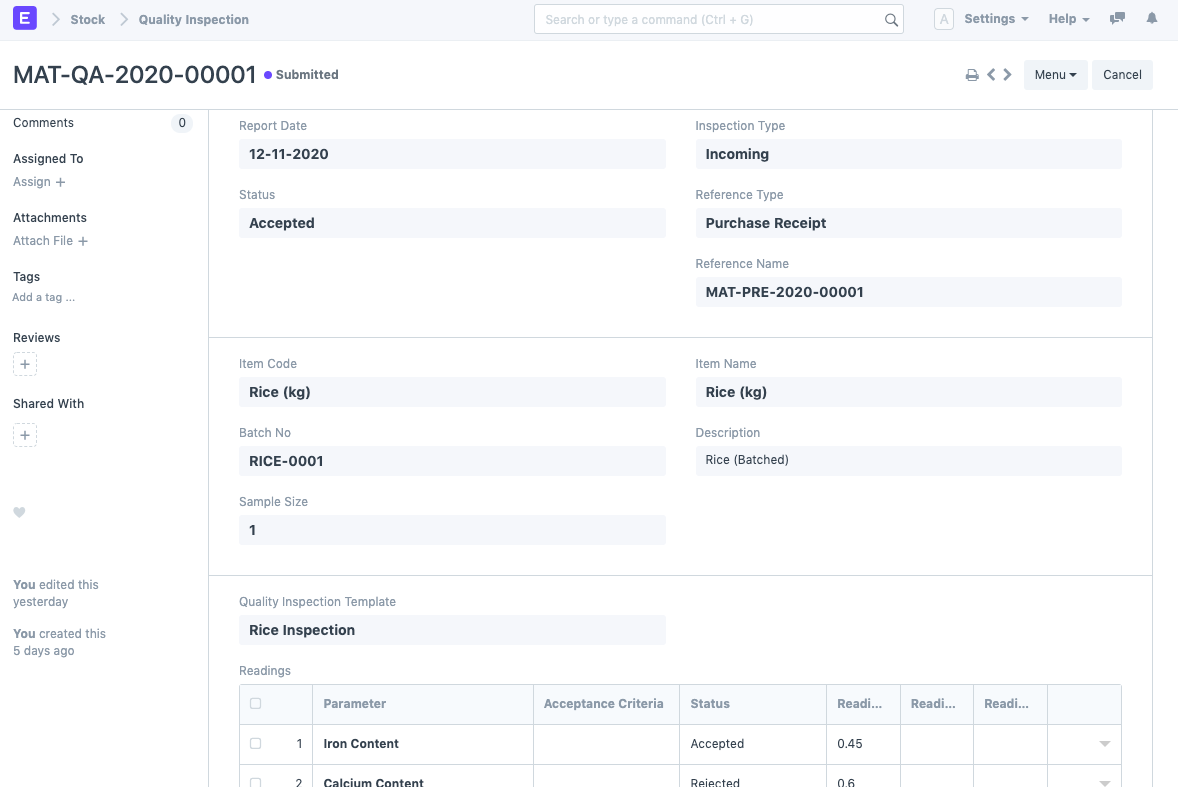
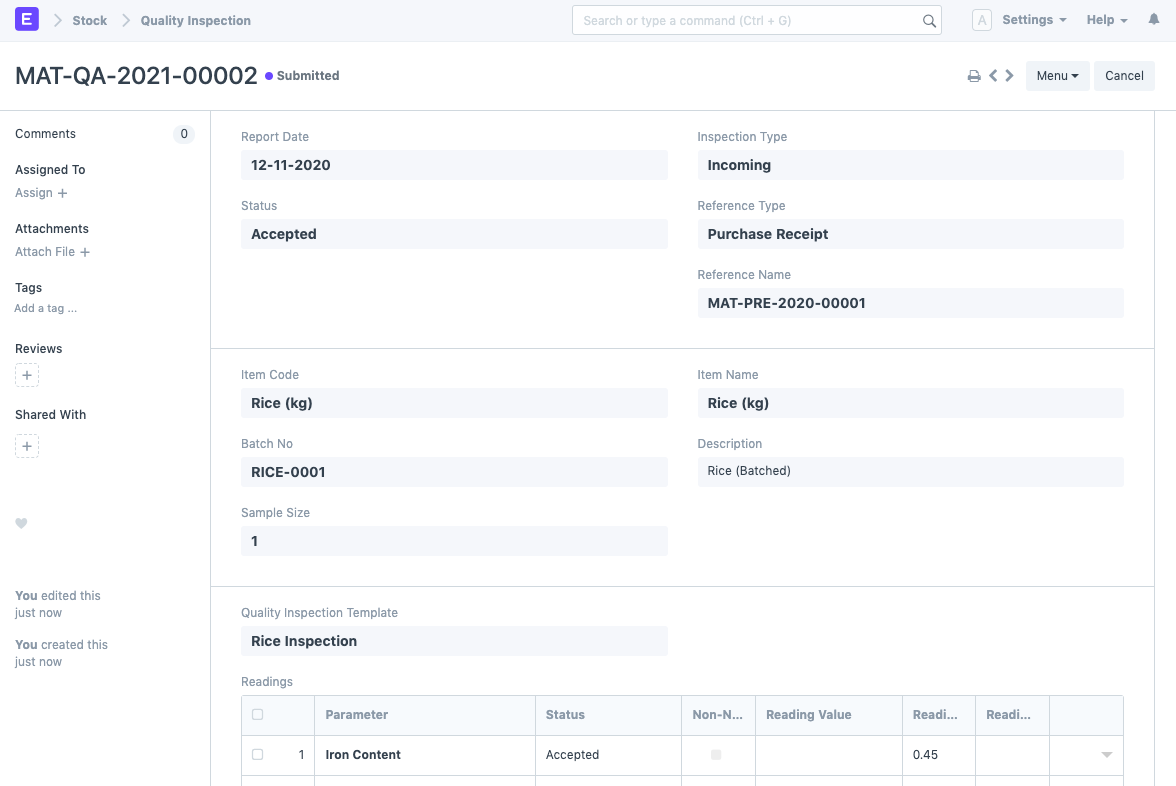
docs: Numeric and Non-numeric Quality Inspection

diff --git a/erpnext_documentation/www/docs/user/manual/en/stock/quality-inspection.md b/erpnext_documentation/www/docs/user/manual/en/stock/quality-inspection.md
@@ -30,16 +30,76 @@ Before creating and using a Quality Inspection, it is advised that you do the fo
 <img class="screenshot" alt="Quality Inspection" src="{{docs_base_url}}/assets/img/stock/quality-inspection.png">
 
 ## 3. Features
-### 3.1 Formula Based Quality Checks
-The acceptance of a parameter/check, in a Quality Inspection, can depend on a certain formula in many cases. The Readings table has a field called **Acceptance Criteria Formula** where you can specify a formula that determines whether a certain check is Accepted or Rejected.
+
+A single Quality Inspection consists of many Quality Checks (Parameters) within it. Each of these checks could be [Numeric](#31-numeric-quality-checks), [Non-numeric](#32-non-numeric-value-based-quality-checks) or [Formula Based](#33-formula-based-quality-checks).
+
+### 3.1 Numeric Quality Checks
+Numeric Quality Checks include all checks that require number based readings and acceptance criteria.
+
+E.g. checking if a reading is in a certain range.
+
+By default the checks are numeric. There are two fields: **Minimum Value** and **Maximum Value**, to define a range that **each** reading must be in. These fields can be set in the Quality Inspection Template once and be simply fetched into the Quality Inspection.
+
+<img class="screenshot" alt="Numeric Quality Check" src="{{docs_base_url}}/assets/img/stock/quality-inspection-numeric-reading.png">
+
+If any of the readings entered are not within this range, the status on the row will be set to 'Rejected' automatically on Save.
+
+### 3.2 Non-numeric (Value Based) Quality Checks
+Non-numeric Quality Checks include checks that require alphabetical values or those that do not require any mathematical calculations.
+
+E.g. checking if the color is white in a color quality check, Yes/No values for certain parameters, etc.
+
+For Non-numeric checks enable the 'Non-numeric' checkbox. You will notice a field **Acceptance Criteria Value** and a section **Value Based Inspection** are visible.
+
+You can simply enter the field Reading Value. The Acceptance Criteria Value can be set in the Quality Inspection Template once and be simply fetched into the Quality Inspection.
+
+<img class="screenshot" alt="Non-numeric Quality Check" src="{{docs_base_url}}/assets/img/stock/quality-inspection-non-numeric-reading.png">
+
+If the Reading Value does not match the Acceptance Criteria Value, the status on the row will be set to 'Rejected' automatically on Save.
+
+### 3.3 Formula Based Quality Checks
+Formula Based Quality Checks are useful for more complex scenarios where just specifying a range or an acceptance value is not enough.
+
+E.g. checking if the grade of a material is A/B/C, checking if the mean of some readings is in a certain range, etc.
+
+Formula Based Quality Checks are applicable to Numeric and Non-numeric Quality Checks.
+
+Enable the 'Formula Based Criteria' checkbox to perform a Formula Based Quality Check. You will then notice a field called **Acceptance Criteria Formula** where you can specify a formula that determines whether a certain check is Accepted or Rejected.
+This formula can be set in the Quality Inspection Template once and be simply fetched into the Quality Inspection.
 
 <img class="screenshot" alt="Acceptance Criteria Formula" src="{{docs_base_url}}/assets/img/stock/acceptance-criteria-formula.png">
 
-This formula depends on the many Reading fields in the Readings table. It can be set manually or via a template.
+This formula depends on the many Reading fields in the Readings table.
 
-After setting it, update the readings and Save. The Status field in the Readings table rows is set automatically based on the formula for acceptance.
+For Numeric readings, `reading_1`, `reading_2` and so on are accepted in the formula.
 
-<img class="screenshot" alt="Acceptance Criteria Formula" src="{{docs_base_url}}/assets/img/stock/qi-formula-based.gif">
+For Non-numeric readings, only `reading_value` is accepted in the formula.
+
+Here are some examples of formulas:
+```py
+# Numeric
+(reading_1 + reading_2) < 10 # sum of both readings is less than 10
+(reading_1 + reading_2) <= 10 # sum of both readings is less than or equal to 10
+mean < 15  # mean of non empty numeric readings is less than 15
+(reading_1 * 2) < 20 # Reading 1 multiplied by 2 is less than 20
+(reading_1) / 2 < 20 # Reading 1 divided by 2 is less than 20
+
+# Non-numeric
+reading_value in ("A", "B", "C") # Reading Value is either A / B / C
+reading_value != "Red" # Reading Value is not equal to Red
+```
+Update the readings and Save. The Status field in the Readings table rows is set automatically based on the formula for acceptance.
+
+### 3.3 Manual Inspection
+
+So far all the Quality Checks have automatic acceptance/rejection on Save. In the real world, there could be cases where a check is rejected but yet will be accepted because there is some tolerance.
+
+Such cases will require the user to determine the row-level status. To avoid any system interference in such checks, enable the 'Manual Inspection' checkbox. You can now set the status manually and it will be untouched on Save.
+
+<img class="screenshot" alt="Manual Inspection" src="{{docs_base_url}}/assets/img/stock/quality-inspection-manual-reading.png">
+
+Here Reading 1 is outside the defined range, this check would be rejected. But, since it is not very far from 0.153 we accept it manually.
+
 
 The status for the entire Quality Inspection can then be decided by the user.
 
